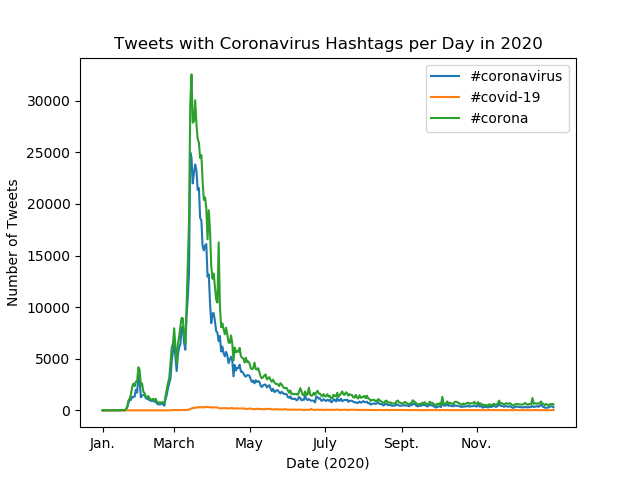
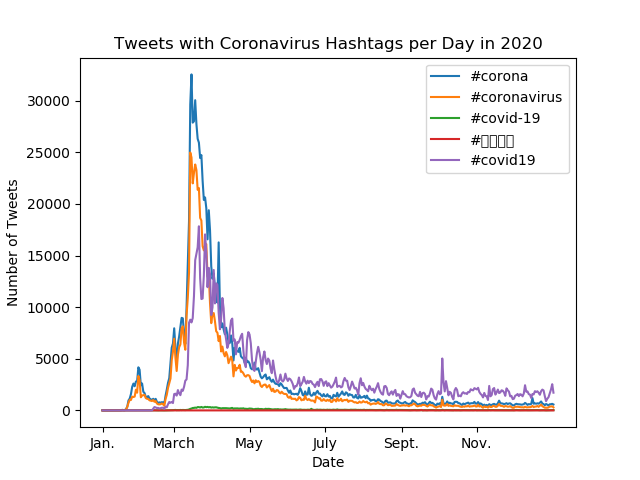
fiddling with hashtags

Changed region(s): [[0.1562, 0.1562, 0.875, 0.875], [0.6562, 0.1562, 0.875, 0.3438], [0.4375, 0.9375, 0.5938, 1.0]]

diff --git a/src/alternative_reduce.py b/src/alternative_reduce.py
@@ -37,7 +37,7 @@ plt.ylabel('Number of Tweets')
 dates = [0, 58, 119, 180, 242, 303]
 months = ['Jan.', "March", "May", "July", "Sept.", "Nov."]
 plt.xticks(dates, months)
-plt.xlabel('Date (2020)')
+plt.xlabel('Date')
 plt.title("Tweets with Coronavirus Hashtags per Day in 2020")
 # fig, ax = plt.subplots(nrows=1, ncols=1)
 # ax.plot(keys[0:11], values[0:11])
